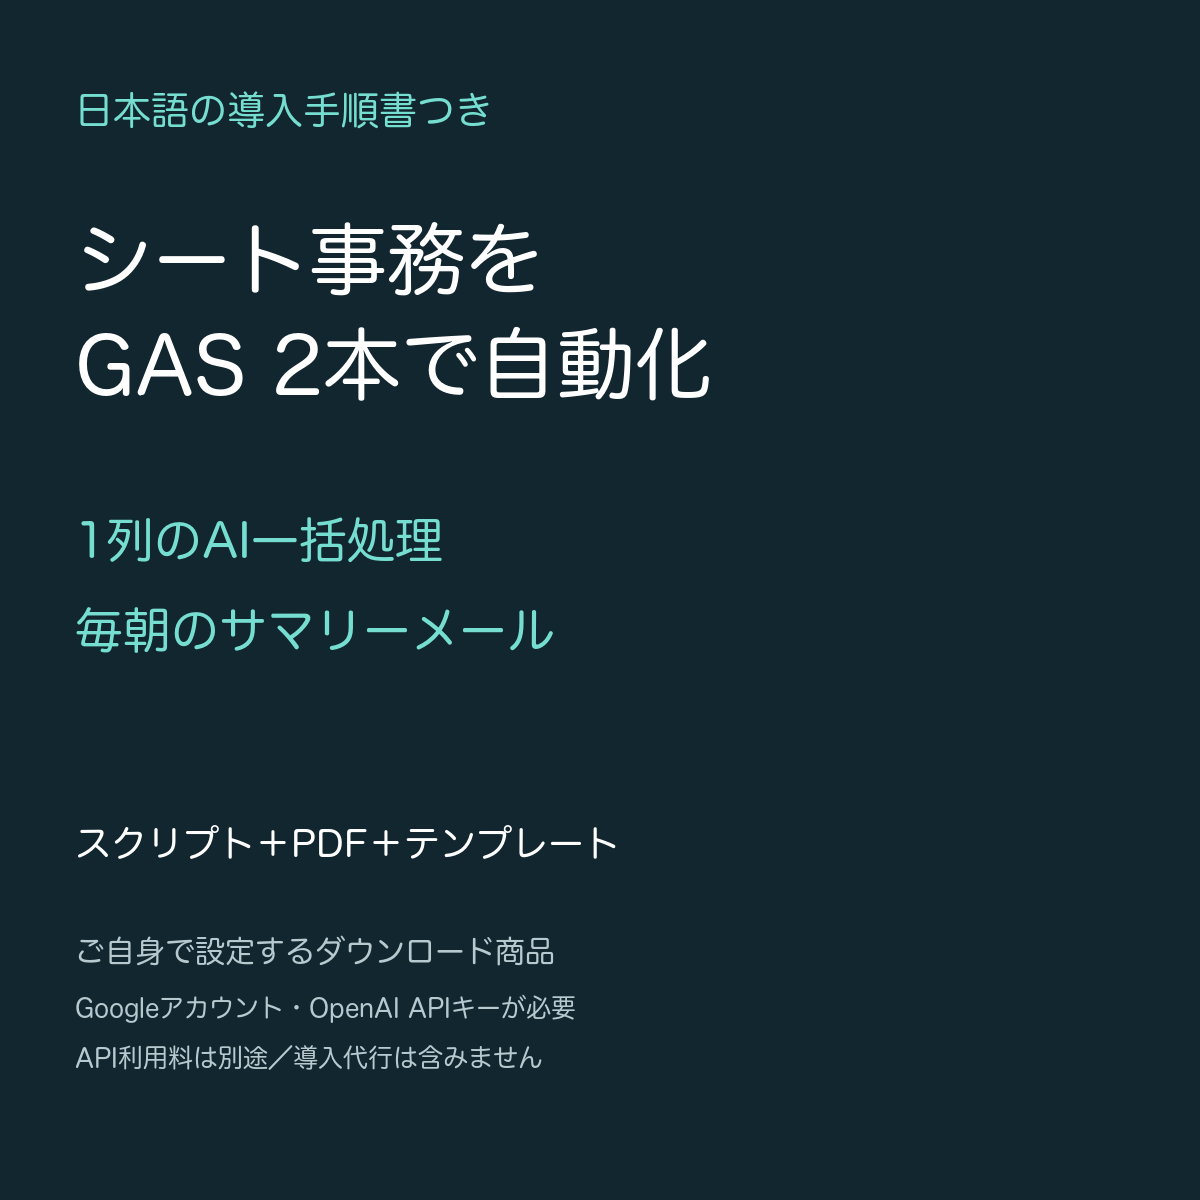
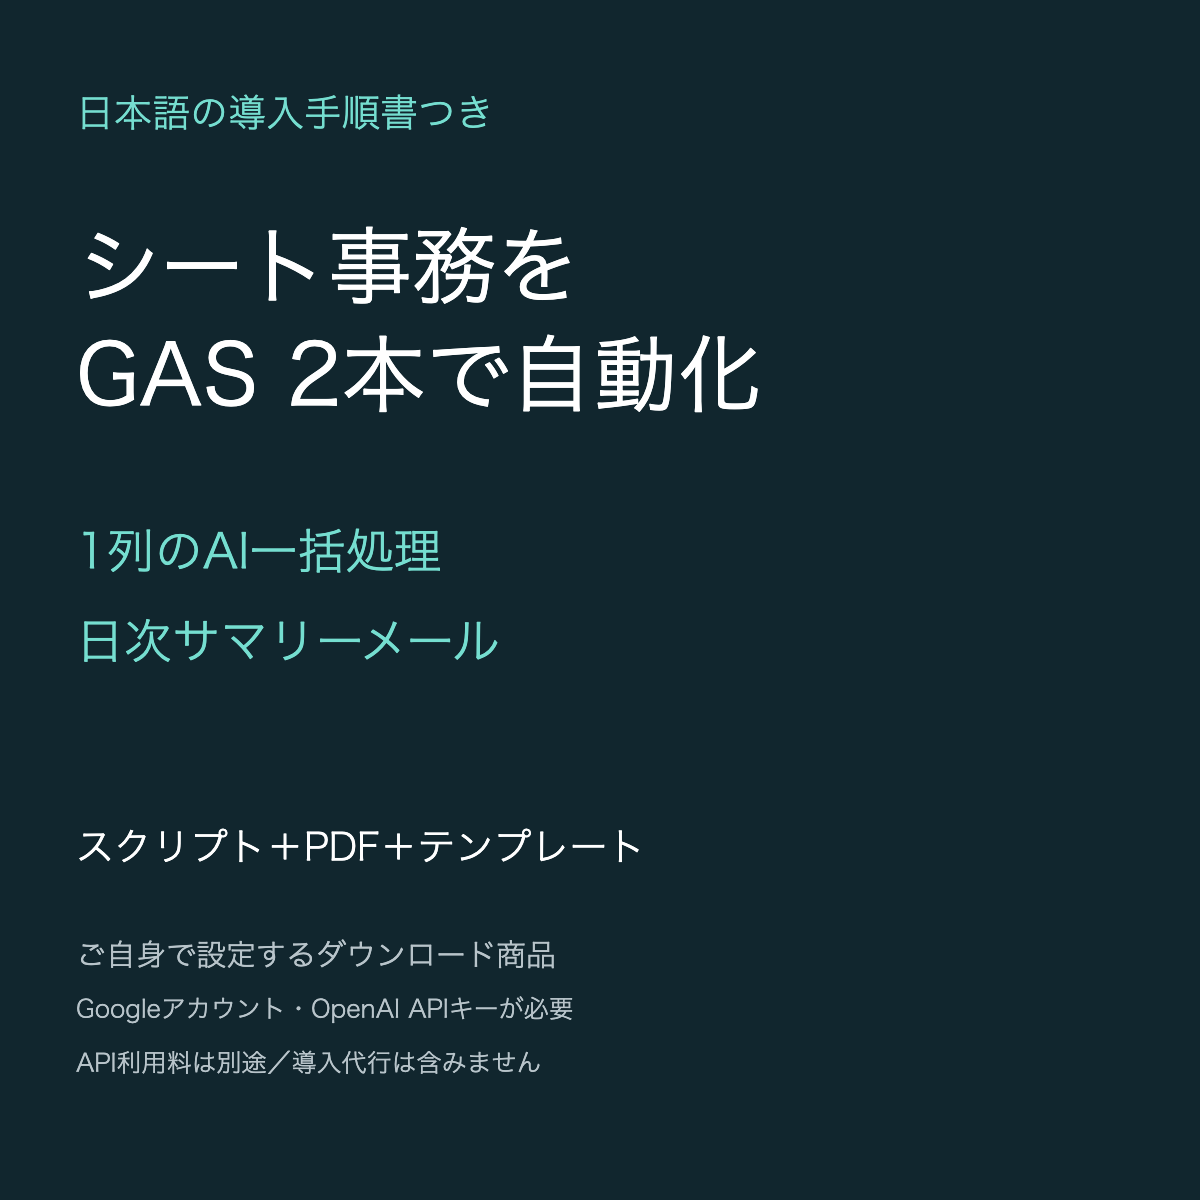
BOOTH listing published: https://booth.pm/ja/items/8919052
Existing JP kit (v2 ZIP 223c0c) as a ¥3,000 download item. Real-form specs,
honesty fixes (daily summary wording, batch 200-row limit), cover regenerated
from source, logged-out verification, owner-only payout step recorded.

diff --git a/marketing/booth/src/cover.html b/marketing/booth/src/cover.html
@@ -1,0 +1,16 @@
+<!doctype html><html><head><meta charset="utf-8"><style>
+html,body{margin:0;width:1200px;height:1200px;background:#11262e;font-family:"Hiragino Sans","Hiragino Kaku Gothic ProN",sans-serif;}
+.w{position:absolute;left:76px;right:76px;top:0;bottom:0}
+.eyebrow{position:absolute;top:84px;font-size:38px;color:#75ded0;font-weight:300}
+h1{position:absolute;top:212px;margin:0;font-size:84px;line-height:108px;color:#fff;font-weight:400}
+.feat{position:absolute;top:506px;font-size:48px;line-height:90px;color:#75ded0;font-weight:300}
+.pack{position:absolute;top:818px;font-size:38px;color:#fff;font-weight:300}
+.note{position:absolute;top:928px;font-size:30px;line-height:52px;color:#b8c4ca;font-weight:300}
+.note .s{font-size:25px}
+</style></head><body><div class="w">
+<div class="eyebrow">日本語の導入手順書つき</div>
+<h1>シート事務を<br>GAS 2本で自動化</h1>
+<div class="feat">1列のAI一括処理<br>日次サマリーメール</div>
+<div class="pack">スクリプト＋PDF＋テンプレート</div>
+<div class="note">ご自身で設定するダウンロード商品<br><span class="s">Googleアカウント・OpenAI APIキーが必要<br>API利用料は別途／導入代行は含みません</span></div>
+</div></body></html>

diff --git a/ops/AGENT_LOOP.md b/ops/AGENT_LOOP.md
@@ -1,3 +1,11 @@
+## Claude Day-30 (~10:45 JST): BOOTH listing published
+- LIVE: https://booth.pm/ja/items/8919052 (shop https://ai-revenue.booth.pm/) — ¥3,000 税込 DL, same v2 ZIP as Gumroad JP/Coconala; fee ¥213/order → ¥2,787 before payout fee/tax. Verified logged-out (curl 200 + fresh headless Chrome: price, cart, body, category, tags).
+- Ran from the local Mac with a dedicated BOOTH Playwright profile (`~/Library/Caches/ms-playwright-mcp/booth-profile`, launchPersistentContext + CDP); s003's profile untouched. Owner logged in; email verification completed from the received BOOTH mail.
+- Measured real form: title ≤191 chars; no desc limit hit at 50k; category ソフトウェア(201); price tax-inclusive per shop 特商法 default; DL file ≤1.2GB, 10GB total.
+- Honesty fixes before publish (checked against the ZIP): 「毎朝のサマリーメール」→「日次サマリーメール」 in body and cover (cover re-rendered from `marketing/booth/src/cover.html`); batch GAS limit stated (200 rows/run, done rows skipped).
+- OPEN ISSUE (not fixed here, other session's pages): `3_ai_batch.gs` always scans rows START_ROW..START_ROW+199, so re-running does NOT continue past row 201. Pages claiming "resume-on-rerun" (JP API cost calculator per the 10:30 entry; Coconala spec) overstate it — change the copy, or ship a script that advances START_ROW.
+- OWNER-ONLY: register BOOTH payout bank account (manage.booth.pm/payout_account) — until then sales accrue but cannot be paid out.
+
 ## Claude Day-30 (~10:32 JST): next-EV action — Coconala listing completeness/conversion
 - Chose this over more reach content: the listing now receives the owned-funnel traffic, had 1 image of 10, and Coconala ranks new services partly on service-info completeness. Fully AI-operable via the logged-in local browser.
 - Added 3 detail images (deliverables / 3-step usage / price & options; `marketing/coconala-images/0[2-4]-detail.png`, sources `img[2-4].html`) and 2 talk-room samples (labelled （例）, matching the actual delivery + setup-support flow).
